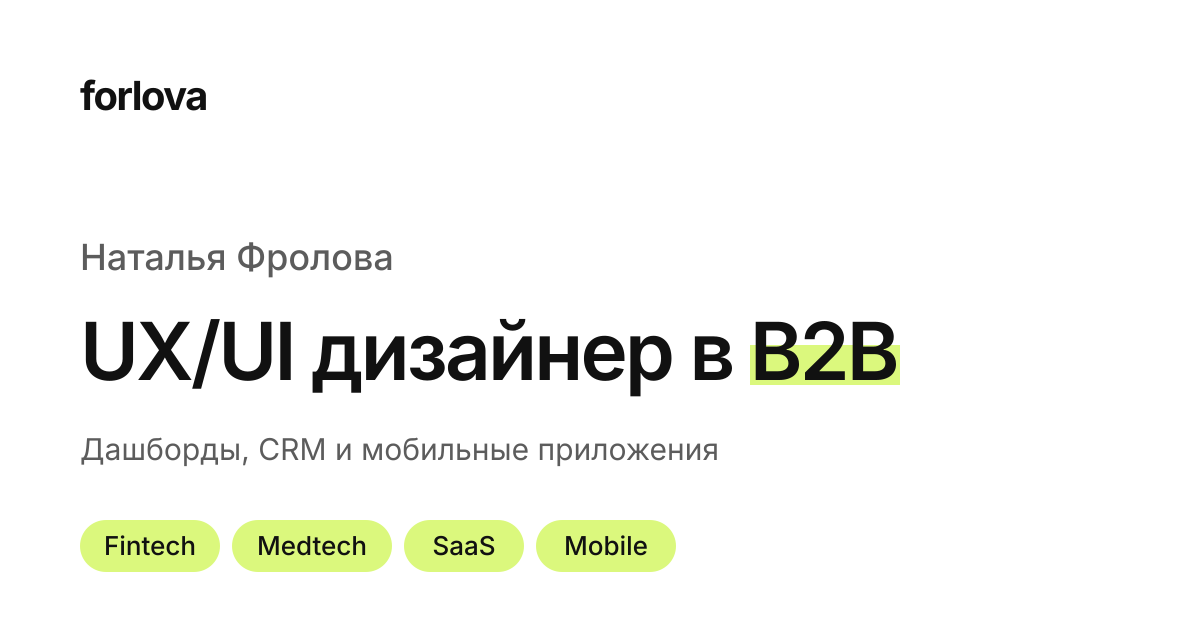
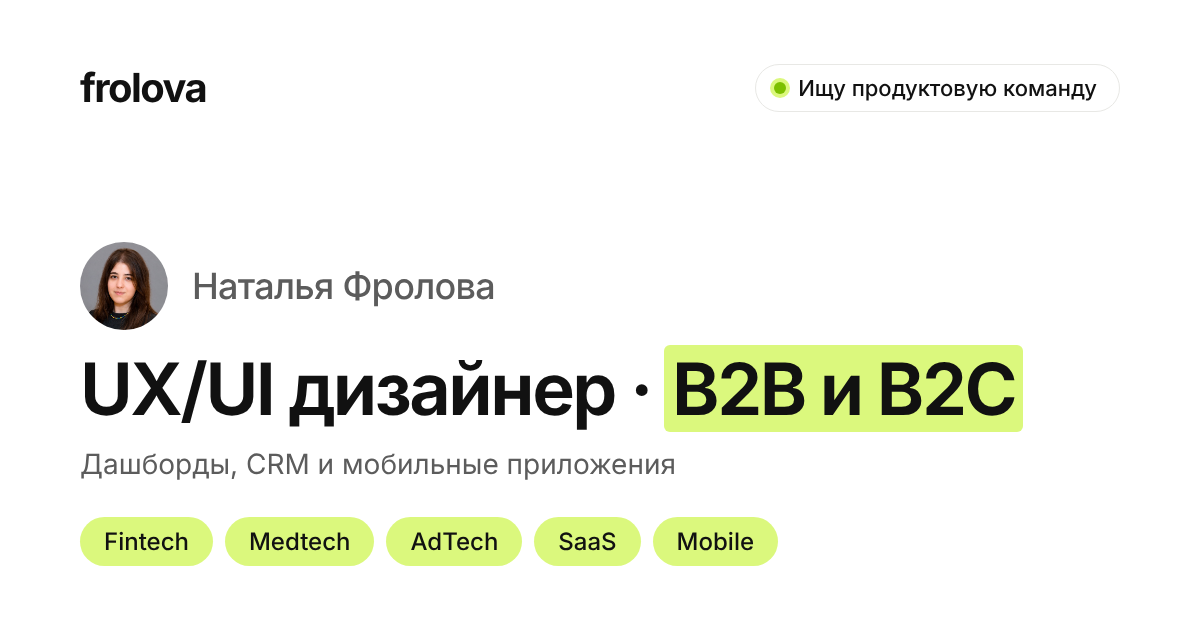
Update link preview images: frolova, current hero, RU/EN versions
Claude-Session: https://claude.ai/code/session_01K6eKR8Rw1naCxsmYZ8SMzW

diff --git a/src/data/site.ts b/src/data/site.ts
@@ -11,7 +11,7 @@ export const site = {
     title: 'Наталья Фролова — UX/UI дизайнер',
     description:
       'Дашборды, CRM и мобильные приложения для финтеха и медтеха. Кейсы NZVC, Migraine Heroes, Plutus Media.',
-    ogImage: '/og.png',
+    ogImage: '/og-ru.png',
   },
   contacts: {
     email: 'deardeer0@yandex.ru',

diff --git a/src/data/site.en.ts b/src/data/site.en.ts
@@ -11,7 +11,7 @@ export const siteEn = {
     title: 'Nataly Frolova — UX/UI Designer',
     description:
       'Dashboards, CRMs and mobile apps for fintech and medtech. Case studies: NZVC, Migraine Heroes, Plutus Media.',
-    ogImage: '/og.png',
+    ogImage: '/og-en.png',
   },
   contacts: {
     email: 'deardeer0@yandex.ru',
